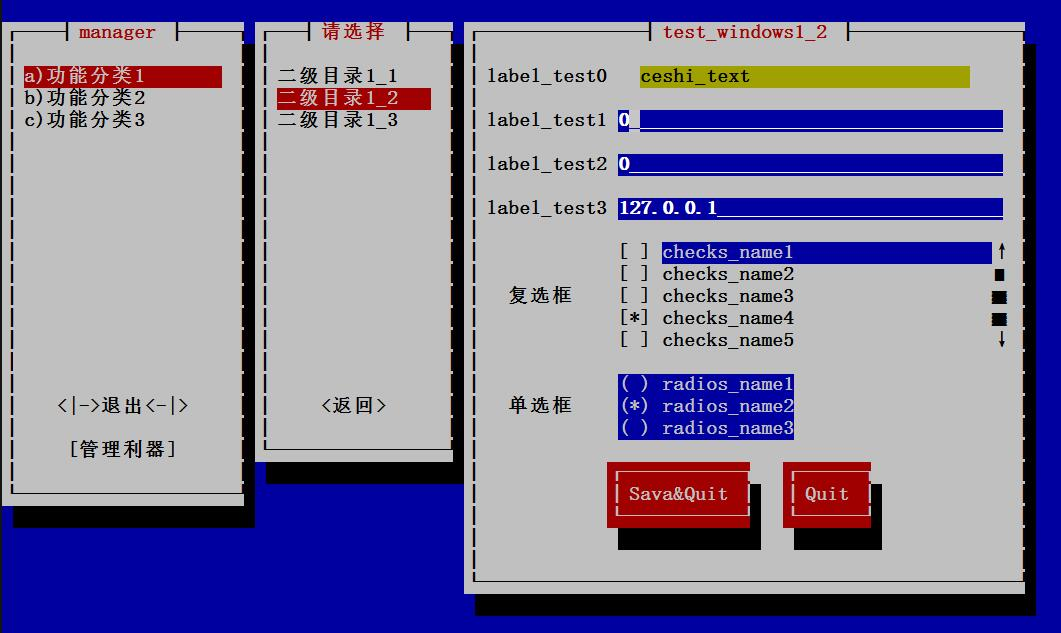
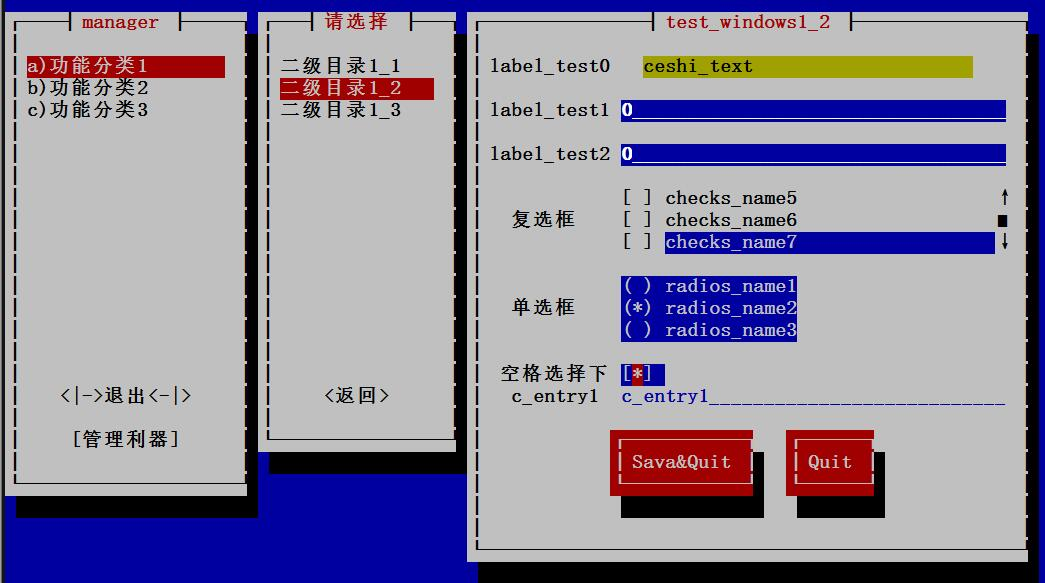
update:doc

diff --git a/mylib/snack_lib.py b/mylib/snack_lib.py
@@ -1,5 +1,6 @@
-from snack import *
+#!/usr/bin/python
 #coding=utf8
+from snack import *
  
 class Mask:
     """
@@ -170,3 +171,54 @@ class Mask:
                 results[name] = self._elements[name].current()
         
         return [ cmd, results ]
+
+if __name__ == "__main__":
+    import os
+    import sys
+    root_path = os.path.dirname(__file__)
+    sys.path.insert(0, os.path.join(root_path, '..'))
+    from mylib.snack_lib import *
+
+    screen = SnackScreen()
+    screen.setColor("ROOT", "white", "blue")
+    screen.setColor("ENTRY","white","blue")
+    screen.setColor("LABEL","black","white")
+    screen.setColor("HELPLINE","white","blue")
+    screen.setColor("TEXTBOX","black","yellow")
+    def test():
+         m = Mask( screen, "test_windows", 35 )
+         m.text("label_test1","ceshi_text")
+         m.entry( "label_test1", "entry_test1", "0" )
+         m.entry( "label_test2", "entry_test2", "0" )
+         m.checks( "复选框","checks_list",[
+             ('checks_name1','checks1',0),
+             ('checks_name2','checks2',0),
+            ('checks_name3','checks3',0),
+             ('checks_name4','checks4',1),
+             ('checks_name5','checks5',0),
+             ('checks_name6','checks6',0),
+             ('checks_name7','checks7',0),
+         ],
+         height= 3
+         )    
+         m.radios( "单选框","radios", [ 
+             ('radios_name1','radios1', 0), 
+             ('radios_name2','radios2', 1), 
+             ('radios_name3','radios3', 0) ] )  
+         m.checks_entry( "空格选择下","checks_entry", 1,[ 
+             ('c_entry1','c_entry1','c_entry1')])  
+         
+         m.buttons( yes="Sava&Quit", no="Quit" )
+         #(cmd, results) = m.run(12,3)
+         (cmd, results) = m.run()
+         screen.finish() 
+         return cmd,results
+
+    try:
+        (cmd,results) = test()
+        print cmd,results
+    except Exception ,e:
+        print e
+    finally:
+        screen.finish()
+

diff --git a/py_menu.py b/py_menu.py
@@ -175,7 +175,6 @@ class Menu_tool:
          m.text("label_test0","ceshi_text")
          m.entry( "label_test1", "entry_test1", "0" )
          m.entry( "label_test2", "entry_test2", "0" )
-         m.entry( "label_test3", "entry_test3", "127.0.0.1" )
          m.checks( "复选框","checks_list",[
              ('checks_name1','checks1',0),
              ('checks_name2','checks2',0),
@@ -185,12 +184,14 @@ class Menu_tool:
              ('checks_name6','checks6',0),
              ('checks_name7','checks7',0),
          ],
-         height= 5
+         height= 3
          )    
          m.radios( "单选框","radios", [ 
              ('radios_name1','radios1', 0), 
              ('radios_name2','radios2', 1), 
              ('radios_name3','radios3', 0) ] )  
+         m.checks_entry( "空格选择下","checks_entry", 1,[ 
+             ('c_entry1','c_entry1','c_entry1')])  
          
          m.buttons( yes="Sava&Quit", no="Quit" )
          (cmd, results) = m.run(43,3)

diff --git a/docs/snack_lib.md b/docs/snack_lib.md
@@ -1,0 +1,36 @@
+## usage
+```
+#cd py_menu/mylib/
+#python snack_lib.py
+```
+
+## 输出结果
+
+当点击确定后输出以下结果
+```
+yes {'entry_test2': '0', 'entry_test3': '127.0.0.1', 'entry_test1': '0', 'radios': 'radios2', 'checks_list': ['checks4']}
+```
+点击cancel时，输出no
+
+## 结构
+
+```
++-------------------------------+
+| +-------------+-------------+ |
+| |  label      |   text      | |
+| +-------------+-------------+ |
+| |  label      |   entry     | |
+| +-------------+-------------+-+---------subgrid
+| |  label      |   checks    | |
+| +-------------+-------------+ |
+| |  label      |   radios    | |
+| +-------------+-------------+ |
+| |  label      |checks_entry | |
+| +-------------+-------------+ |
+| +---------------------------+ |
+| |                           | |
+| |          button           +-+---------buttons
+| |                           | |
+| +---------------------------+ |
++-------------------------------+---------gridform
+```

diff --git a/README.md b/README.md
@@ -1,19 +1,22 @@
 # py_menu
 
-* [展示](#展示)
+* [项目概述及展示](#项目概述及展示)
 * [usage](#usage)
 * [输出结果](#输出结果)
 * [version](#version)
 * [参加步骤](#参加步骤)
 * [小额捐款](#小额捐款)
 
-## 展示
+## 项目概述及展示
+
+> * [项目](docs/project.md)
 
 ![Screenshot](images/test.jpg)
 
 ## usage
 
-> * [使用手册](docs/usage.md)
+> * [py_menu使用手册](docs/usage.md)
+> * snack_lib.py使用手册,可单独使用---------[snack_lib](docs/snack_lib.md)
 > * [程序原理及结构](docs/arch.md)
 
 ## 输出结果

diff --git a/docs/arch.md b/docs/arch.md
@@ -57,6 +57,8 @@
 | +-------------+-------------+ |
 | |  label      |   radios    | |
 | +-------------+-------------+ |
+| |  label      |checks_entry | |
+| +-------------+-------------+ |
 | +---------------------------+ |
 | |                           | |
 | |          button           +-+---------buttons
@@ -64,6 +66,8 @@
 | +---------------------------+ |
 +-------------------------------+---------gridform
 ```
+第三层编辑窗口具体实现可查看[snack_lib](snack_lib.md)
+
 ## (3)函数实现
 
 ### 一级及二级菜单

diff --git a/docs/project.md b/docs/project.md
@@ -1,0 +1,6 @@
+## project
+
+本项目主要更新两部分
+
+> * py_menu 整体框架
+> * 第三级编辑页的底层函数库mylib/snack_lib.py,此库可以单独使用

diff --git a/docs/usage.md b/docs/usage.md
@@ -80,7 +80,6 @@ config_secondary = [{
             return self.secondary_menu()
 
 ```
-规范
 
 
 ### 二级菜单配置中往三级编辑窗口函数跳转实现
